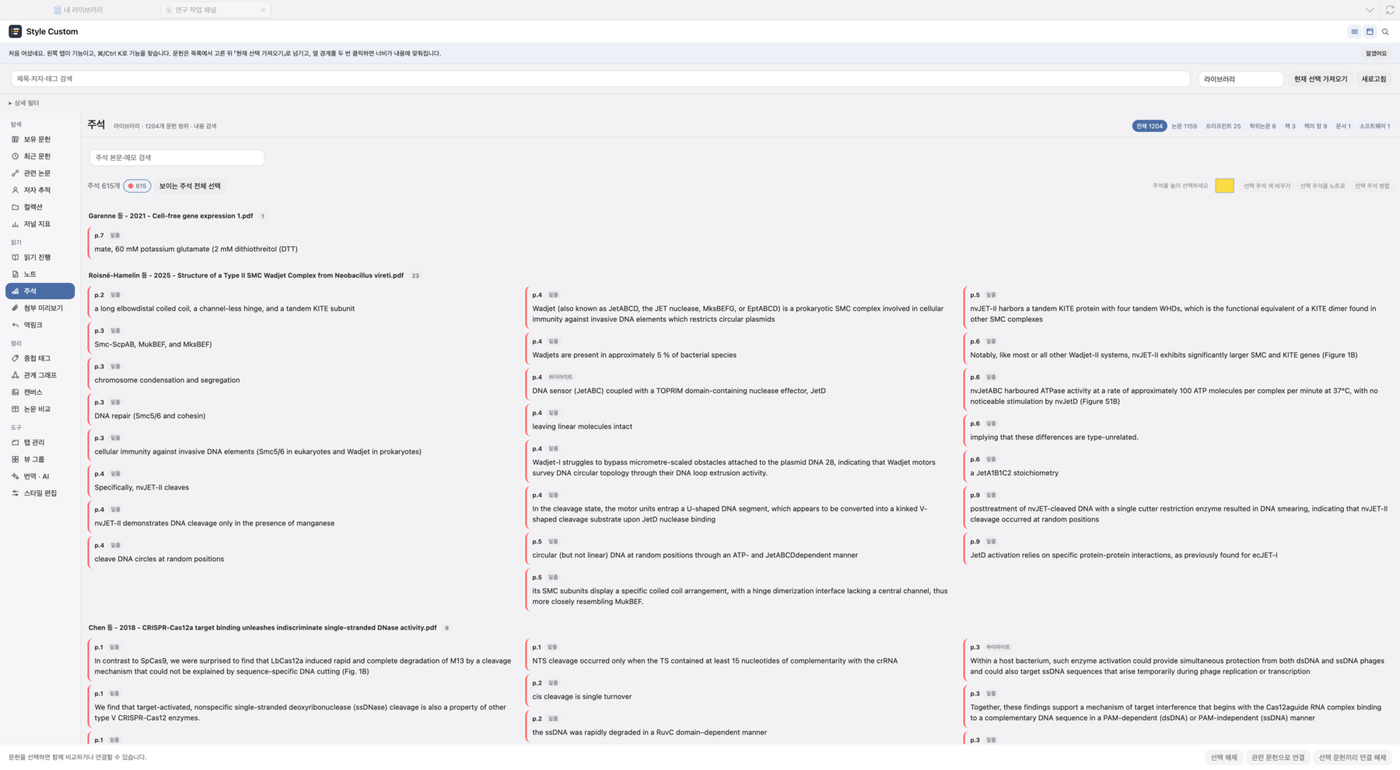
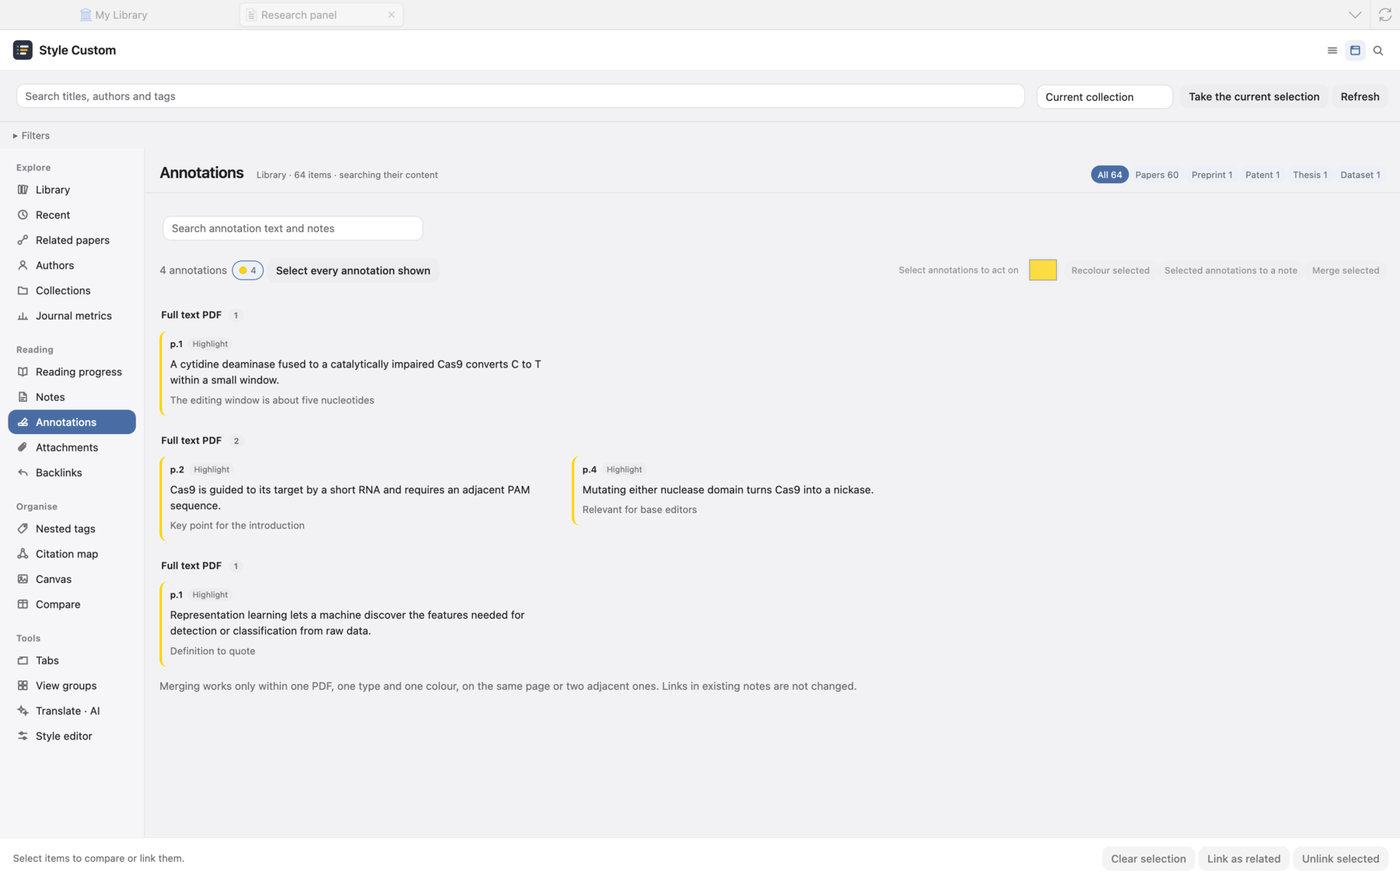
README pictures from a demonstration library, not anyone's own
Every picture is now taken from a separate Zotero profile seeded with
well-known public papers: sixty-five of them with real DOIs, ten
collections, notes, highlights on a placeholder PDF, reading time, status
and rating. The self-check grew a seed pass that builds such a library from
a JSON file (only into an empty library, only when asked) and a picture pass
that switches the custom columns on, hides Zotero's banners and every column
the README does not talk about, keeps the panel's scope on the library, and
paints each tab off the hidden window. The ZotPoP picture is a real OpenAlex
search for "CRISPR base editing" in that same instance.

Also: the tab heading, the scope line, the selection count and the filter
summary now pass through the dictionary, which the English pictures showed
they did not.

diff --git a/zotero-style-custom/src/selfcheck.js b/zotero-style-custom/src/selfcheck.js
@@ -29,7 +29,7 @@
     }
   }
 
-  async function run(Zotero, runtime, {network = true, repair = false, fill = false, shots = false} = {}) {
+  async function run(Zotero, runtime, {network = true, repair = false, fill = false, shots = false, seed = ''} = {}) {
     const results = [];
     const win = Zotero.getMainWindow && Zotero.getMainWindow();
     const doc = win && win.document;
@@ -53,6 +53,73 @@
       try { return !!runtime.signalTools.bareDOI(runtime.citationRecord(item).doi); }
       catch (ignored) { return false; }
     });
+
+    /* A demonstration library, for pictures that show nobody's own work: public
+       papers from a JSON file named by a pref, with collections, tags, notes,
+       highlights on a placeholder PDF, reading time, status and rating. Only
+       into an empty library, only when asked, and never on a library that
+       already holds anything. */
+    if (seed) results.push(await attempt('a demonstration library is seeded from the named file', async () => {
+      const library = Zotero.Libraries.userLibraryID;
+      const existing = await Zotero.Items.getAll(library);
+      if (existing.some(item => item.isRegularItem && item.isRegularItem())) throw new Error('the library is not empty; refusing to seed into it');
+      const spec = JSON.parse(await IOUtils.readUTF8(seed));
+      const dir = PathUtils.parent(seed);
+      const collections = new Map();
+      for (const c of spec.collections || []) {
+        const col = new Zotero.Collection(); col.libraryID = library; col.name = c.name;
+        if (c.parent && collections.has(c.parent)) col.parentID = collections.get(c.parent);
+        await col.saveTx(); collections.set(c.name, col.id);
+      }
+      const made = [];
+      for (const r of spec.items || []) {
+        const type = r.itemType || 'journalArticle';
+        const item = new Zotero.Item(type); item.libraryID = library;
+        item.setField('title', r.title);
+        if (r.year) item.setField('date', String(r.year));
+        if (r.doi && type === 'journalArticle') item.setField('DOI', r.doi);
+        if (r.url) item.setField('url', r.url);
+        if (r.journal && type === 'journalArticle') item.setField('publicationTitle', r.journal);
+        if (r.journal && type === 'preprint') item.setField('repository', r.journal);
+        if (r.repository && type === 'dataset') item.setField('repository', r.repository);
+        if (r.university && type === 'thesis') item.setField('university', r.university);
+        if (r.number && type === 'patent') item.setField('patentNumber', r.number);
+        item.setCreators((r.authors || []).map(([last, first]) => first ? {firstName: first, lastName: last, creatorType: type === 'patent' ? 'inventor' : 'author'} : {name: last, creatorType: type === 'patent' ? 'inventor' : 'author', fieldMode: 1}));
+        if (r.collections) item.setCollections(r.collections.map(n => collections.get(n)).filter(Boolean));
+        if (r.tags) item.setTags(r.tags.map(tag => ({tag})));
+        await item.saveTx(); made.push(item);
+      }
+      for (const n of spec.notes || []) {
+        const note = new Zotero.Item('note'); note.libraryID = library; note.parentID = made[n.item].id; note.setNote(n.text); await note.saveTx();
+      }
+      const attachments = new Map();
+      const pdf = PathUtils.join(dir, 'demo-paper.pdf');
+      const withPdf = new Set([...(spec.annotations || []).map(a => a.item), ...(spec.reading || []).map(r => r.item)]);
+      for (const index of withPdf) {
+        const att = await Zotero.Attachments.importFromFile({file: pdf, parentItemID: made[index].id, title: 'Full text PDF'});
+        attachments.set(index, att);
+      }
+      let highlights = 0;
+      for (const a of spec.annotations || []) {
+        const att = attachments.get(a.item);
+        for (const [i, h] of (a.highlights || []).entries()) {
+          const ann = new Zotero.Item('annotation'); ann.libraryID = library; ann.parentID = att.id;
+          ann.annotationType = 'highlight'; ann.annotationText = h.text; ann.annotationComment = h.comment || '';
+          ann.annotationColor = h.color || '#ffd400'; ann.annotationPageLabel = String(h.page || 1);
+          ann.annotationSortIndex = `${String((h.page || 1) - 1).padStart(5, '0')}|${String(i * 100).padStart(6, '0')}|00000`;
+          ann.annotationPosition = JSON.stringify({pageIndex: (h.page || 1) - 1, rects: [[72, 700 - i * 40, 520, 716 - i * 40]]});
+          await ann.saveTx(); highlights++;
+        }
+      }
+      for (const r of spec.reading || []) {
+        const item = made[r.item], att = attachments.get(r.item);
+        const pages = r.read || [0], each = Math.max(1, Math.round(r.seconds / pages.length));
+        for (const page of pages) await runtime.addReading(item, each, {attachmentID: att.id, pageIndex: page, totalPages: r.pages || 9});
+        await runtime.edit([item], {status: r.status || 'unread', rating: r.rating || 0});
+      }
+      await runtime.flush();
+      return `${made.length} papers · ${collections.size} collections · ${(spec.notes || []).length} notes · ${highlights} highlights · ${(spec.reading || []).length} read`;
+    }));
 
     results.push(await attempt('Zotero.Items.getAll returns what the plugin assumes', () => {
       if (getAllShape === 'promise' && !runtime.libraryItems) {
@@ -178,36 +245,6 @@
       if (!state.columnFit.seen) throw new Error(`the double-click never reached the handler (resizer classes: ${target.className})`);
       if (!state.columnFit.fitted) throw new Error(`the handler stopped: ${state.columnFit.last}`);
       return `${state.columnFit.last} · header ${Math.round(before)} → ${Math.round(after)}px · ${resizers.length} resizers`;
-    }));
-
-    if (shots) results.push(await attempt('pictures of the panel for the README, taken off the hidden window', async () => {
-      /* drawWindow paints from layout, so a window that is hidden from the
-         screen still yields its picture. Nothing is brought forward. */
-      const state = runtime.windows.get(win), bench = state && state.workbench;
-      if (!bench) throw new Error('workbench not attached');
-      const dir = PathUtils.join(PathUtils.parent(runtime.selfCheckPath || Zotero.DataDirectory.dir + '/style-custom-selfcheck.json'), 'style-custom-shots');
-      await IOUtils.makeDirectory(dir, { ignoreExisting: true });
-      const shoot = async name => {
-        await new Promise(resolve => win.setTimeout(resolve, 900));
-        const scale = 2, w = win.innerWidth, h = win.innerHeight;
-        const canvas = win.document.createElementNS('http://www.w3.org/1999/xhtml', 'canvas');
-        canvas.width = w * scale; canvas.height = h * scale;
-        const ctx = canvas.getContext('2d'); ctx.scale(scale, scale);
-        ctx.drawWindow(win, 0, 0, w, h, '#ffffff');
-        const data = canvas.toDataURL('image/png').split(',')[1];
-        const bytes = Uint8Array.from(atob(data), c => c.charCodeAt(0));
-        await IOUtils.write(PathUtils.join(dir, name + '.png'), bytes);
-        return `${name} ${w}×${h}`;
-      };
-      const taken = [];
-      try { await bench.toggle(false); } catch (ignored) {}
-      taken.push(await shoot('library'));
-      await bench.show('explore'); if (!bench.docked()) { try { bench.dock(); } catch (ignored) {} }
-      for (const tab of ['explore', 'related', 'authors', 'journals', 'annotations', 'graph', 'collections', 'reading', 'matrix']) {
-        try { await bench.show(tab); taken.push(await shoot(tab)); } catch (error) { taken.push(`${tab} failed: ${error.message || error}`); }
-      }
-      try { await bench.toggle(false); } catch (ignored) {}
-      return taken.join(' · ') + ' → ' + dir;
     }));
 
     results.push(await attempt('the panel can sit in a Zotero tab and fill it', async () => {
@@ -639,6 +676,92 @@
         return JSON.stringify(counts) + (partial ? ` · ${partial} partial` : '');
       }));
     }
+
+    if (shots) results.push(await attempt('pictures of the panel for the README, taken off the hidden window', async () => {
+      /* drawWindow paints from layout, so a window hidden from the screen still
+         yields its picture. Nothing is brought forward. */
+      const state = runtime.windows.get(win), bench = state && state.workbench;
+      if (!bench) throw new Error('workbench not attached');
+      const dir = PathUtils.join(Zotero.DataDirectory.dir, 'style-custom-shots');
+      await IOUtils.makeDirectory(dir, { ignoreExisting: true });
+      try { win.resizeTo(1720, 1080); } catch (ignored) {}
+      // Zotero's own banners (upgrade, sync, Word plugin) are not the subject.
+      for (const el of win.document.querySelectorAll('#post-upgrade-banner, #mac-word-plugin-install-banner, #retracted-items-banner, #file-renaming-banner-container, [id*="sync-reminder"], notification-message, notification')) { el.hidden = true; el.style.display = 'none'; }
+      const dismiss = () => { for (const b of bench.panel.querySelectorAll('.sc-welcome button, .sc-notice button')) if (/Got it|Later|알겠어요|나중에/.test(b.textContent)) b.click(); };
+      const shoot = async (name, target = win) => {
+        await new Promise(resolve => win.setTimeout(resolve, 1200));
+        const scale = 2, w = target.innerWidth, h = target.innerHeight;
+        const canvas = win.document.createElementNS('http://www.w3.org/1999/xhtml', 'canvas');
+        canvas.width = w * scale; canvas.height = h * scale;
+        const ctx = canvas.getContext('2d'); ctx.scale(scale, scale);
+        ctx.drawWindow(target, 0, 0, w, h, '#ffffff');
+        const data = canvas.toDataURL('image/png').split(',')[1];
+        await IOUtils.write(PathUtils.join(dir, name + '.png'), Uint8Array.from(atob(data), c => c.charCodeAt(0)));
+        return `${name} ${w}×${h}`;
+      };
+      const library = Zotero.Libraries.userLibraryID;
+      const all = (await Zotero.Items.getAll(library)).filter(item => item.isRegularItem && item.isRegularItem());
+      const byTitle = part => all.find(item => String(item.getField('title')).includes(part));
+      const one = byTitle('dual-RNA-guided') || all[0];
+      const three = [one, byTitle('Programmable editing of a target base'), byTitle('Search-and-replace')].filter(Boolean);
+      const select = async items => { try { await win.ZoteroPane.selectItems(items.map(i => i.id)); } catch (ignored) {} await new Promise(resolve => win.setTimeout(resolve, 400)); };
+      bench.state.scope = 'library';
+      const taken = [];
+      try { await bench.toggle(false); } catch (ignored) {}
+      try { await runtime.useColumns(win); } catch (ignored) {}
+      await new Promise(resolve => win.setTimeout(resolve, 500));
+      // The columns the README talks about, and only those, at widths that read.
+      let columnsNote = '';
+      try {
+        const tree = win.ZoteroPane.itemsView.tree, cols = tree._columns._columns || [];
+        // A plugin column's key in the tree is the one registration handed back, not its name.
+        const key = name => (runtime.featureColumns && runtime.featureColumns.get(name)) || name;
+        const widths = {title: 430, firstCreator: 150, year: 56, journalMark: 120, if: 60, citations: 130, status: 90, rating: 84, time: 80, files: 70, correspondingInstitution: 220};
+        const keep = new Set(Object.keys(widths).map(key));
+        cols.forEach((column, index) => { const want = keep.has(column.dataKey); if (!!column.hidden === want) tree._columns.toggleHidden(index); });
+        await new Promise(resolve => win.setTimeout(resolve, 300));
+        const present = new Set(cols.map(c => c.dataKey));
+        tree._columns.onResize(Object.fromEntries(Object.entries(widths).map(([name, width]) => [key(name), width]).filter(([k]) => present.has(k))), true);
+        await new Promise(resolve => win.setTimeout(resolve, 300));
+        columnsNote = 'visible: ' + cols.filter(c => !c.hidden).map(c => c.dataKey).join(',');
+      } catch (error) { columnsNote = 'columns failed: ' + (error.message || error); }
+      try { await win.ZoteroPane.collectionsView.selectLibrary(library); } catch (ignored) {}
+      await select(one ? [one] : []);
+      taken.push(await shoot('library'));
+      await select([]);
+      const plan = [['explore', []], ['related', [one]], ['authors', [one]], ['journals', []], ['annotations', [one]], ['graph', []], ['collections', []], ['reading', []], ['matrix', three]];
+      for (const [tab, items] of plan) {
+        try {
+          await select(items.filter(Boolean));
+          bench.state.scope = 'library';
+          await bench.show(tab); if (!bench.docked()) { try { bench.dock(); } catch (ignored) {} }
+          dismiss();
+          await new Promise(resolve => win.setTimeout(resolve, tab === 'related' || tab === 'authors' ? 6000 : 800));
+          taken.push(await shoot(tab));
+        } catch (error) { taken.push(`${tab} failed: ${error.message || error}`); }
+      }
+      try { await bench.toggle(false); } catch (ignored) {}
+      // ZotPoP, in its own tab: one search on an open source, then its picture.
+      try {
+        const zotpop = Zotero.ZotPoP;
+        if (zotpop && typeof zotpop.openSearch === 'function') {
+          const tabID = zotpop.openSearch(win, {keywords: 'CRISPR base editing'});
+          await new Promise(resolve => win.setTimeout(resolve, 2500));
+          const browser = win.document.getElementById(tabID)?.querySelector('browser');
+          const cw = browser?.contentWindow, cd = cw?.document;
+          if (!cd) throw new Error('ZotPoP tab has no document');
+          const source = cd.getElementById('source'); if (source) { source.value = 'openalex'; source.dispatchEvent(new cw.Event('change', {bubbles: true})); }
+          const keywords = cd.getElementById('keywords'); if (keywords && !keywords.value) keywords.value = 'CRISPR base editing';
+          const max = cd.getElementById('maxResults'); if (max) max.value = '60';
+          cd.getElementById('search-btn')?.click();
+          for (let i = 0; i < 60; i++) { await new Promise(resolve => win.setTimeout(resolve, 1000)); if ((cd.getElementById('results-body')?.children.length || 0) >= 20) break; }
+          await new Promise(resolve => win.setTimeout(resolve, 1500));
+          taken.push(await shoot('zotpop'));
+          try { win.Zotero_Tabs.close(tabID); } catch (ignored) {}
+        }
+      } catch (error) { taken.push('zotpop failed: ' + (error.message || error)); }
+      return taken.join(' · ') + ' · ' + columnsNote + ' → ' + dir;
+    }));
 
     const passed = results.filter(row => row.pass).length;
     return {

diff --git a/zotero-style-custom/src/workbench.js b/zotero-style-custom/src/workbench.js
@@ -411,23 +411,24 @@
    const nativeJCR=state.tab==='journals'&&state.journalBrowser!=='openalex';
    footer.hidden=nativeJCR;
    const count=state.selected.size;footer.dataset.selected=String(count>0);const visible=new Set((['notes','annotations','attachments'].includes(state.tab)?model.filter(scoped(),parentOptions()):rows()).map(item=>String(item.id))),outside=[...state.selected].filter(id=>!visible.has(String(id))).length;
-   selectionLabel.textContent=count?`${count}개 문헌 선택${outside?' · 현재 결과 밖 '+outside+'개 포함':''}`:'문헌을 선택하면 함께 비교하거나 연결할 수 있습니다.';
+   selectionLabel.textContent=count?T(`${count}개 문헌 선택`)+(outside?' · '+T(`현재 결과 밖 ${outside}개 포함`):''):T('문헌을 선택하면 함께 비교하거나 연결할 수 있습니다.');
    selectionLabel.title=selected().slice(0,5).map(item=>item.title).join('\n');
    clearSelection.disabled=nativeJCR||!count||clearSelection.dataset.busy==='true';relatedAction.disabled=nativeJCR||count<2||relatedAction.dataset.busy==='true';unlinkAction.disabled=nativeJCR||count<2||unlinkAction.dataset.busy==='true';
    for(const card of body.querySelectorAll('[data-item-id]'))card.dataset.selected=String(state.selected.has(card.dataset.itemId));
   }
   function updateChrome(){
-   sectionTitle.textContent=TABS.find(([id])=>id===state.tab)?.[1]||'';
+   sectionTitle.textContent=T(TABS.find(([id])=>id===state.tab)?.[1]||'');
    const nativeJCR=state.tab==='journals'&&state.journalBrowser!=='openalex';
    const applicable=!nativeJCR&&FILTER_TABS.has(state.tab)&&state.tab!=='collections';controls.hidden=!applicable;filterPanel.hidden=!applicable;kindChips.hidden=!applicable;
    // While the list is narrowed to a selection, the way back is one button, not a menu.
    let back=context.querySelector('.sc-scope-back');
    if(applicable&&state.scope==='selected'){if(!back){back=button('전체 목록으로',()=>{state.scope='library';scope.value='library';render();},null,{class:'sc-scope-back'});context.insertBefore(back,contextDetail.nextSibling);}}
    else back?.remove();
-   contextDetail.textContent=nativeJCR?'Clarivate Journal Citation Reports':applicable?`${({library:'라이브러리',selected:'선택한 문헌',collection:'현재 컬렉션','collection-recursive':'현재·하위 컬렉션'})[state.scope]} · ${(['notes','annotations','attachments'].includes(state.tab)?model.filter(scoped(),parentOptions()):rows()).length}개 문헌${['notes','annotations','attachments'].includes(state.tab)?' 범위 · 내용 검색':''}`:'선택한 문헌 '+state.selected.size+'개';
+   {const scopeName=T(({library:'라이브러리',selected:'선택한 문헌',collection:'현재 컬렉션','collection-recursive':'현재·하위 컬렉션'})[state.scope]||'라이브러리'),inside=['notes','annotations','attachments'].includes(state.tab),n=(inside?model.filter(scoped(),parentOptions()):rows()).length;
+   contextDetail.textContent=nativeJCR?'Clarivate Journal Citation Reports':applicable?T(inside?`${scopeName} · ${n}개 문헌 범위 · 내용 검색`:`${scopeName} · ${n}개 문헌`):T(`선택한 문헌 ${state.selected.size}개`);}
    filterChips.replaceChildren();const labels={query:'검색',type:'유형',tag:'태그',status:'상태',ratingMin:'최소 별점',yearFrom:'시작 연도',yearTo:'마지막 연도'};
    for(const[key,label]of Object.entries(labels))if(state[key]){const value=key==='status'?({unread:'안 읽음',reading:'읽는 중',done:'완료'})[state[key]]:state[key];button(`${label}: ${value} ×`,()=>{state[key]='';if(key==='query')search.value='';else if(key==='type')type.value='';else if(filterInputs.has(key))filterInputs.get(key).value='';return render();},filterChips,{'aria-label':label+' 필터 해제'});}
-   const count=Object.keys(labels).filter(key=>state[key]).length;filterSummary.textContent='상세 필터'+(count?' · '+count+'개 적용':'');filterChips.hidden=!applicable||!count;
+   const count=Object.keys(labels).filter(key=>state[key]).length;filterSummary.textContent=T('상세 필터')+(count?' · '+T(`${count}개 적용`):'');filterChips.hidden=!applicable||!count;
    for(const group of nav.querySelectorAll('.sc-nav-group'))group.hidden=[...group.querySelectorAll('[data-tab]')].every(button=>button.hidden);
    updateSelectionUI();
   }

diff --git a/zotero-style-custom/src/strings.js b/zotero-style-custom/src/strings.js
@@ -158,6 +158,8 @@
  "{0} {1}종 중 {2}위 · 상위 {3}% · 로컬 Q{4}": "{0}: {2} of {1} · top {3}% · local Q{4}",
  "{0} · {1}개 · 눌러서 이 색만 보기": "{0} · {1} · click to show only this colour",
  "{0} · {1}개 · 다시 눌러 색 필터 해제": "{0} · {1} · press again to clear the colour filter",
+ "{0} · {1}개 문헌": "{0} · {1} items",
+ "{0} · {1}개 문헌 범위 · 내용 검색": "{0} · {1} items · searching their content",
  "{0} · {1}개 문헌{2}": "{0} · {1} items{2}",
  "{0} · {1}종": "{0} · {1} journals",
  "{0} · {1}편": "{0} · {1} papers",
@@ -183,11 +185,13 @@
  "{0}–{1} 범위의 값을 입력하세요.": "Enter a value between {0} and {1}.",
  "{0}가 요청을 거절했습니다({1}). API 키가 필요하거나 만료됐는지 설정에서 확인하세요.": "{0} refused the request ({1}). Check in the settings whether an API key is needed or has expired.",
  "{0}개 문서 탭을 닫았습니다.": "Closed {0} document tabs.",
+ "{0}개 문헌 선택": "{0} items selected",
  "{0}개 문헌 선택{1}": "{0} items selected{1}",
  "{0}개 문헌의 상호 연결을 해제했습니다.": "Unlinked {0} items from each other.",
  "{0}개 문헌의 색을 지웠습니다.": "Cleared the colour on {0} papers.",
  "{0}개 문헌의 주석 {1}개가 더 있습니다.": "{1} more annotations, across {0} papers.",
  "{0}개 설정 검색됨": "{0} settings found",
+ "{0}개 적용": "{0} applied",
  "{0}개 주석의 색상을 변경했습니다.": "Recoloured {0} annotations.",
  "{0}개 항목의 별 태그를 정리했습니다. 평점은 그대로 유지됩니다.": "Tidied the star tags on {0} items. The ratings themselves are unchanged.",
  "{0}개 항목의 평점을 Extra의 \"Rating: N\"으로 옮기고 태그를 지웠습니다. 별점은 그대로입니다.": "Moved the ratings on {0} items into \"Rating: N\" in Extra and removed the tags. The ratings themselves are unchanged.",
@@ -629,6 +633,7 @@
  "선택한 OpenAlex 경로의 로컬 JIF 비교 순위가 없습니다.": "No local JIF comparison rank for the chosen OpenAlex path.",
  "선택한 문헌": "Selected items",
  "선택한 문헌 ": "Selected ",
+ "선택한 문헌 {0}개": "{0} selected items",
  "선택한 문헌 없음": "No item selected",
  "선택한 문헌 인용 수 새로고침": "Refresh citations for the selection",
  "선택한 문헌에 새 노트 작성": "Add a note to the selection",
@@ -1265,6 +1270,7 @@
  "항목별 설명을 확인하고 값을 적용하세요. 텍스트 입력은 적용을 눌러야 저장됩니다.": "Read each description and apply the value. Text fields are only saved when Apply is pressed.",
  "해제": "Unfollow",
  "행·열 전환": "Swap rows and columns",
+ "현재 결과 밖 {0}개 포함": "including {0} outside the current results",
  "현재 동작": "Current behaviour",
  "현재 동작 상태": "Current state",
  "현재 동작 정보를 제공하지 않습니다.": "It does not report its current behaviour.",
@@ -1284,6 +1290,7 @@
  "현재 탭으로 그룹 갱신": "Update the group from the open tabs",
  "현재 페이지 선택": "Select this page",
  "현재 페이지 선택 해제": "Deselect this page",
+ "현재·하위 컬렉션": "This collection and its subcollections",
  "호주": "Australia",
  "홈페이지": "Homepage",
  "홍콩": "Hong Kong",

diff --git a/zotero-style-custom/bootstrap.js b/zotero-style-custom/bootstrap.js
@@ -88,9 +88,11 @@ async function startup({ id, version, rootURI }) {
         network: Zotero.Prefs.get("extensions.style-custom.selfCheckNetwork", true) !== false,
         repair: Zotero.Prefs.get("extensions.style-custom.selfCheckRepair", true) === true,
         fill: Zotero.Prefs.get("extensions.style-custom.selfCheckFill", true) === true,
-        shots: Zotero.Prefs.get("extensions.style-custom.selfCheckShots", true) === true
+        shots: Zotero.Prefs.get("extensions.style-custom.selfCheckShots", true) === true,
+        seed: String(Zotero.Prefs.get("extensions.style-custom.selfCheckDemoSeed", true) || "")
       };
       for (const flag of ["selfCheck", "selfCheckRepair", "selfCheckFill", "selfCheckShots"]) Zotero.Prefs.set("extensions.style-custom." + flag, false, true);
+      Zotero.Prefs.set("extensions.style-custom.selfCheckDemoSeed", "", true);
       const reportPath = PathUtils.join(Zotero.DataDirectory.dir, "style-custom-selfcheck.json");
       setTimeout(() => {
         globalThis.CustomStyleSelfCheck

diff --git a/README.md b/README.md
@@ -9,7 +9,7 @@ Two plugins for Zotero 7, 8 and 9, kept in one repository and installed separate
 
 ![The Zotero item list with Style Custom's columns: impact factor, citation count with a bar, reading status, the journal in its own colour, rating, reading time, file kinds, and the corresponding institution with its tier and flag](docs/images/library-columns.png)
 
-The item list above is Zotero's own, with Style Custom's columns switched on. Both plugins are available in English and Korean; the language is chosen in each plugin's settings.
+The item list above is Zotero's own, with Style Custom's columns switched on. Every picture on this page is of a demonstration library of well-known public papers. Both plugins are available in English and Korean; the language is chosen in each plugin's settings.
 
 ![The two buttons in the items toolbar: the ZotPoP magnifier and the Style Custom panel](docs/images/toolbar-icons.png)
 
@@ -99,9 +99,9 @@ Reading status and rating; search this paper in ZotPoP; related papers; follow t
 
 **Collections** — the collection tree with a bar for what each one holds; hide empty collections, search by name.
 
-**Reading** — time and pages read in the PDF reader are recorded automatically. A page map shows which pages were read and for how long; unread papers can be picked out.
+![The Collections tab](docs/images/style-custom-collections.png)
 
-![The Reading tab](docs/images/style-custom-reading.png)
+**Reading** — time and pages read in the PDF reader are recorded automatically. A page map shows which pages were read and for how long; unread papers can be picked out.
 
 **Notes, backlinks, attachment preview, nested tags, canvas, comparison, tabs, view groups, translation · AI, appearance** — write notes and send them to the trash, see the notes that point at a paper, preview attachments, browse tags as a hierarchy, arrange papers on a free canvas, compare several papers in a table (the AI reads their claims and points of contention), tidy open tabs, keep saved sets of views, translate and summarise, and set the panel's and the list's colours and fonts.
 
